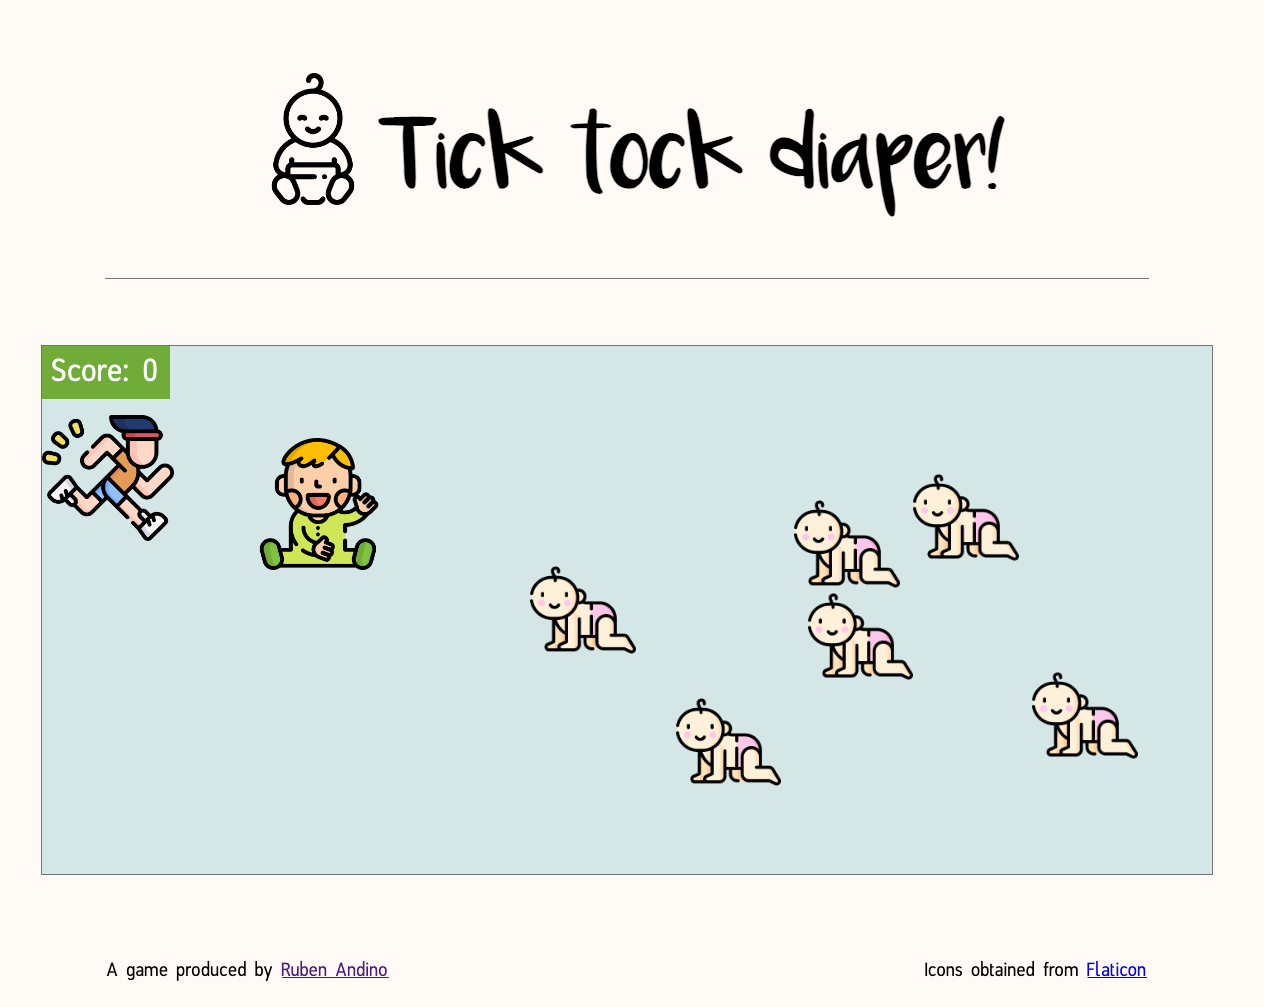
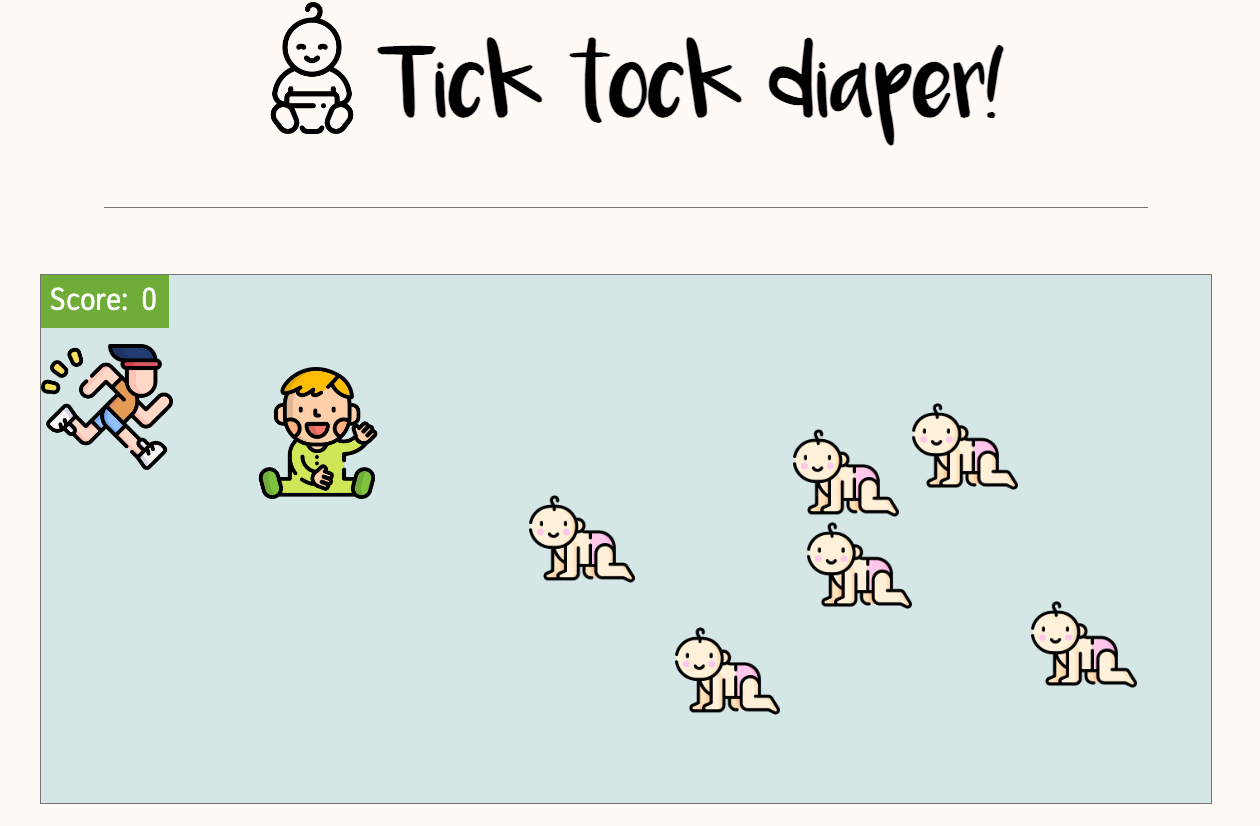
adding media query for bigger screens, and debugging

diff --git a/src/component/Projects.js b/src/component/Projects.js
@@ -2,16 +2,18 @@ import React, { useState } from "react";
 import styled from "styled-components";
 
 const ProjectContainer = styled.div`
+  display: flex;
+  flex-direction: column;
+  justify-content: center;
   font-weight: 100;
   font-size: 0.9rem;
-  position: absolute;
   text-align: justify;
-  bottom: 6vh;
-  margin: 0 5vw 0 20vw;
+  margin: 0 0 0 30vw;
   overflow: auto;
+  height: 52.5vh;
+  max-width: 50vw;
 
   & div {
-    margin-bottom: 1.5rem;
     cursor: pointer;
   }
 
@@ -19,18 +21,37 @@ const ProjectContainer = styled.div`
     color: var(--white);
   }
 
+  & .outline {
+    border: 0.1rem solid;
+    border-radius: 0.3rem;
+  }
+
   @media (min-width: 1023px) {
-    bottom: 20vh;
-    margin-left: 60vw;
-    width: 30vw;
+    margin-top: 0;
+    margin-left: 49.95vw;
+    max-width: 45vw;
+    padding: 1rem;
     & a {
       text-decoration: none;
     }
+    & div {
+      padding: 0 1rem;
+    }
   }
 
-  @media (orientation: landscape) {
+  @media (max-width: 1023px) and (orientation: landscape) {
+    display: block;
+    position: absolute;
+    top: 20%;
+    overflow: scroll;
     margin-left: 55vw;
+    height: 100%;
     width: 34vw;
+  }
+  @media (min-width: 1500px) {
+    max-width: 25vw;
+    margin-left: 30vw;
+    height: 55vh;
   }
 `;
 
@@ -40,11 +61,13 @@ const DescriptionProject = styled.div`
   }
 
   & .show {
-    position: absolute;
-    bottom: 30vh;
-    margin-left: 2rem;
-    margin-right: 50vw;
+    display: flex;
+    flex-direction: column;
+    justify-content: center;
+    position: fixed;
+    margin: 0 50vw 0 2rem;
     text-align: justify;
+    height: 65vh;
   }
 
   & .show p {
@@ -57,9 +80,16 @@ const DescriptionProject = styled.div`
   }
 
   & .show img {
-    height: 10rem;
-    margin: auto;
+    width: 60%;
+    object-fit: cover;
+    margin: 0 auto;
     border-radius: 0.3rem;
+  }
+
+  @media (min-width: 1500px) {
+    & .show {
+      height: 50vh;
+    }
   }
 `;
 
@@ -100,7 +130,7 @@ function Projects() {
             >
               <h2>Guithub</h2>
             </a>
-            <p>Community to share guitars.</p>
+            <p>Community to showcase guitars.</p>
           </div>
           <div>
             <a
@@ -120,7 +150,7 @@ function Projects() {
         <>
           <DescriptionProject>
             <div className={className.plan ? "show" : "hide"}>
-              {/* <img src="../../Plan-that-meal.png" alt="" /> */}
+              <img src="../../Plan-that-meal.png" alt="" />
               <p>
                 PlanThatMeal is a MERN fullstack responsive web application that
                 was created based on the people's needs to plan their meals for
@@ -129,30 +159,32 @@ function Projects() {
                 authentication, tailored content per type of user, and upload
                 image feature.
               </p>
-              <a
-                href="https://planthatmeal.netlify.app/"
-                target="_blank"
-                rel="noreferrer"
-              >
-                Website
-              </a>
-              <a
-                href="https://github.com/rubenanlo/plan-that-meal-client"
-                target="_blank"
-                rel="noreferrer"
-              >
-                Github (front end)
-              </a>
-              <a
-                href="https://github.com/rubenanlo/plan-that-meal-server"
-                target="_blank"
-                rel="noreferrer"
-              >
-                Github (back end)
-              </a>
+              <div>
+                <a
+                  href="https://planthatmeal.netlify.app/"
+                  target="_blank"
+                  rel="noreferrer"
+                >
+                  Website
+                </a>
+                <a
+                  href="https://github.com/rubenanlo/plan-that-meal-client"
+                  target="_blank"
+                  rel="noreferrer"
+                >
+                  Github (front end)
+                </a>
+                <a
+                  href="https://github.com/rubenanlo/plan-that-meal-server"
+                  target="_blank"
+                  rel="noreferrer"
+                >
+                  Github (back end)
+                </a>
+              </div>
             </div>
             <div className={className.guit ? "show" : "hide"}>
-              {/* <img src="../../Guithub.png" alt="" /> */}
+              <img src="../../Guithub.png" alt="" />
               <p>
                 GuitHub is a fullstack responsive web application that was
                 created to provide a platform where guitarists could share the
@@ -162,59 +194,75 @@ function Projects() {
                 (i.e., users, guitars), authentication and tailored content per
                 type of user.
               </p>
-              <a
-                href="http://guithub.herokuapp.com/"
-                target="_blank"
-                rel="noreferrer"
-              >
-                Website
-              </a>
-              <a
-                href="https://github.com/rubenanlo/guithub"
-                target="_blank"
-                rel="noreferrer"
-              >
-                Github (full stack)
-              </a>
+              <div>
+                <a
+                  href="http://guithub.herokuapp.com/"
+                  target="_blank"
+                  rel="noreferrer"
+                >
+                  Website
+                </a>
+                <a
+                  href="https://github.com/rubenanlo/guithub"
+                  target="_blank"
+                  rel="noreferrer"
+                >
+                  Github (full stack)
+                </a>
+              </div>
             </div>
             <div className={className.tick ? "show" : "hide"}>
-              {/* <img src="../../Tick-tock.png" alt="" /> */}
+              <img src="../../Tick-tock.png" alt="" />
               <p>
                 Tick tock diaper is a responsive collision type of game that was
                 created with JavaScript(ES6), HTML5, and CSS3. This game relies
                 on classes, addEventListeners, DOM manipulation, and so much
                 more.
               </p>
-              <a
-                href="https://rubenanlo.github.io/tick-tock-diaper/"
-                target="_blank"
-                rel="noreferrer"
-              >
-                Website
-              </a>
-              <a
-                href="https://github.com/rubenanlo/tick-tock-diaper"
-                target="_blank"
-                rel="noreferrer"
-              >
-                Github
-              </a>
+              <div>
+                <a
+                  href="https://rubenanlo.github.io/tick-tock-diaper/"
+                  target="_blank"
+                  rel="noreferrer"
+                >
+                  Website
+                </a>
+                <a
+                  href="https://github.com/rubenanlo/tick-tock-diaper"
+                  target="_blank"
+                  rel="noreferrer"
+                >
+                  Github
+                </a>
+              </div>
             </div>
           </DescriptionProject>
 
           <ProjectContainer>
-            <div id="plan" onClick={toggleClass}>
+            <div
+              className={className.plan ? "outline" : ""}
+              id="plan"
+              onClick={toggleClass}
+            >
               <h2 id="plan">PlanThatMeal</h2>
               <p id="plan">
                 Meal planner, recipes repository and shopping list generator.
               </p>
             </div>
 
-            <div id="guit" onClick={toggleClass}>
+            <div
+              className={className.guit ? "outline" : ""}
+              id="guit"
+              onClick={toggleClass}
+            >
               <h2 id="guit">GuitHub</h2>
-              <p id="guit">Community to share guitars.</p>
+              <p id="guit">Community to showcase guitars.</p>
             </div>
-            <div id="tick" onClick={toggleClass}>
+            <div
+              className={className.tick ? "outline" : ""}
+              id="tick"
+              onClick={toggleClass}
+            >
               <h2>Tick tock diaper</h2>
               <p>
                 Change as many diapers as you can with this collision type of

diff --git a/src/component/Home.js b/src/component/Home.js
@@ -2,7 +2,8 @@ import React from "react";
 import styled from "styled-components";
 
 const HomeContainer = styled.div`
-  position: absolute;
+  height: 55vh;
+  display: flex;
   text-align: justify;
   font-weight: 100;
   line-height: 1.5rem;
@@ -11,15 +12,25 @@ const HomeContainer = styled.div`
   margin-left: 20vw;
 
   @media (min-width: 1023px) {
-    bottom: 20vh;
-    margin-left: 60vw;
-    width: 30vw;
+    margin-top: 20vh;
+    margin-left: 49.95vw;
+    max-width: 30vw;
+    padding: 1rem;
   }
 
-  @media (orientation: landscape) {
+  @media (max-width: 1023px) and (orientation: landscape) {
+    display: block;
+    position: absolute;
+    top: 20%;
+    overflow: scroll;
     margin-left: 55vw;
+    height: 100%;
     width: 34vw;
-    overflow: auto;
+  }
+
+  @media (min-width: 1500px) {
+    width: 20vw;
+    margin-left: 30vw;
   }
 `;
 

diff --git a/src/component/Navbar.js b/src/component/Navbar.js
@@ -21,6 +21,13 @@ const NavbarContainer = styled.div`
     border-bottom: 0.1rem solid;
     width: 50vw;
   }
+
+  @media (min-width: 1400px) {
+    width: 25vw;
+    & .active {
+      width: 25vw;
+    }
+  }
 `;
 
 function Navbar() {

diff --git a/src/App.js b/src/App.js
@@ -34,6 +34,11 @@ const Container = styled.div`
   .mailto {
     width: 2rem;
   }
+  @media (min-width: 1500px) {
+    margin: 0 25%;
+    /* width: 25%; */
+    padding: 10px;
+  }
 `;
 
 function App() {

diff --git a/src/App.css b/src/App.css
@@ -5,3 +5,4 @@
   --white: rgb(240, 240, 240);
   --grey: RGB(191, 191, 191);
 }
+
